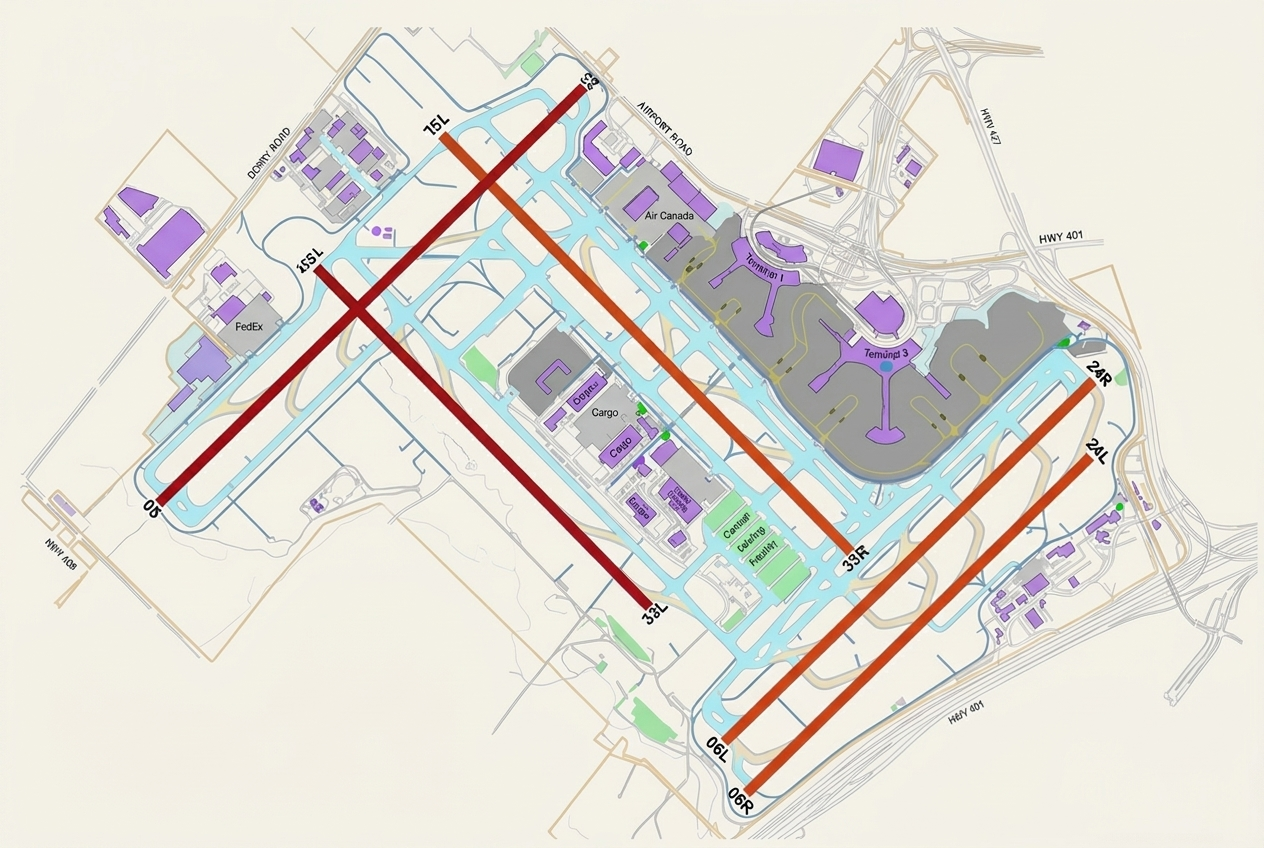
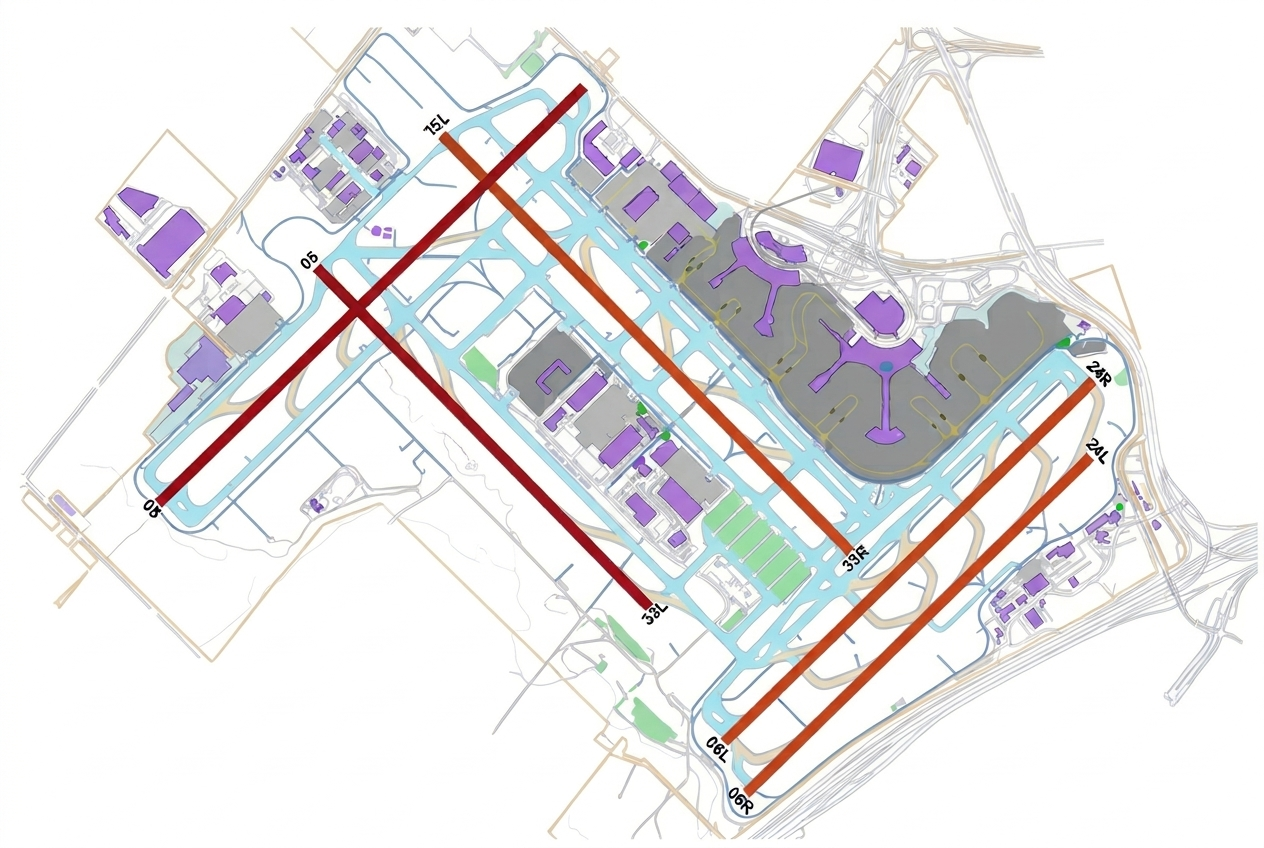
Replace map practice image

diff --git a/index.html b/index.html
@@ -16,7 +16,7 @@
 <p class="small" style="margin-top:17px">Scoring: all 20 map locations must be correct. Up to three errors are allowed across the other 29 questions. This is a study simulation; confirm current exam rules with GTAA.</p>
 </section>
 <section id="quiz" class="card hidden"><div class="qhead"><span id="qnum" class="qnum"></span><span id="qcat" class="tag"></span></div><div class="progress"><i id="progress"></i></div><div id="qbody"></div><div class="row" style="justify-content:space-between;margin-top:20px"><button class="btn secondary" onclick="quitQuiz()">Exit</button><button id="next" class="btn" disabled onclick="advance()">Continue</button></div></section>
-<section id="result" class="card hidden"></section><footer class="foot"><div>Study references: Airport Traffic Directives – AVOP DA (2026) and YYZ Site Map (April 2024). This independent practice app is not produced or endorsed by GTAA. Follow current official directives and airside signage.</div><div class="footer-meta"><span>Version 1.4.0</span><span class="copyright">© 2026 AVOP-DA-TEST Developed by SEOKWOO KIM</span></div></footer>
+<section id="result" class="card hidden"></section><footer class="foot"><div>Study references: Airport Traffic Directives – AVOP DA (2026) and YYZ Site Map (April 2024). This independent practice app is not produced or endorsed by GTAA. Follow current official directives and airside signage.</div><div class="footer-meta"><span>Version 1.4.1</span><span class="copyright">© 2026 AVOP-DA-TEST Developed by SEOKWOO KIM</span></div></footer>
 </main>
 <script>
 const bank=[
